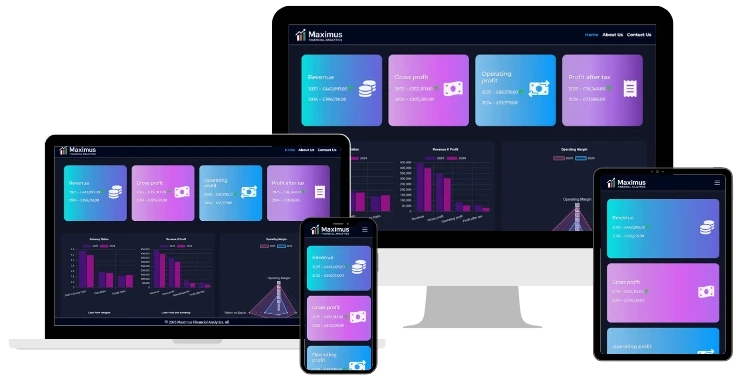
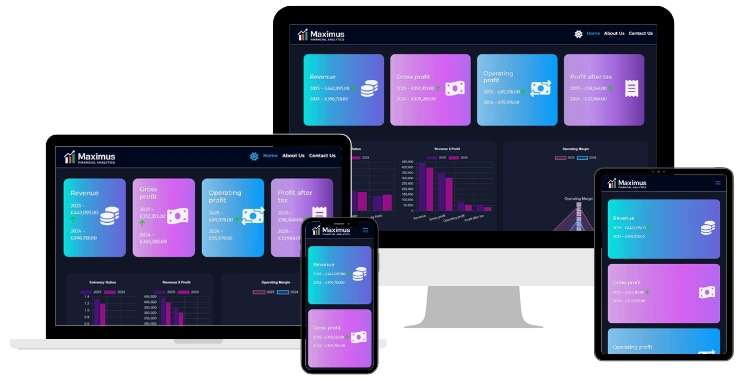
Update readme

diff --git a/README.md b/README.md
@@ -2,6 +2,8 @@
 ![Mock-up Homepage](assets/images/Maximus-MockUp-Homepage.webp)
 ---
 ![Mock-up Homepage](assets/images/Maximus-MockUp-Charts.webp)
+---
+![Mock-up Homepage](assets/images/Maximus-MockUp-Charts-light-theme.webp)
 
 ## Demo
 
